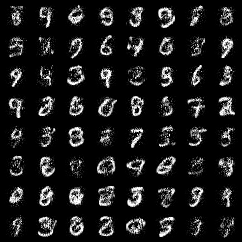
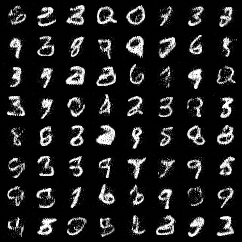
Add dequantization; Modify data range; Update result

diff --git a/scripts/test_nice.py b/scripts/test_nice.py
@@ -86,7 +86,14 @@ def main():
         nlls, bpds = [], []
         with torch.no_grad():
             for x in tqdm.tqdm(test_loader, desc='Evaluating', disable=not accelerator.is_main_process):
-                x = discard_label(x)
+                # dequantize data
+                x = discard_label(x)                # [-1, 1], quantized
+                x = (x + 1) / 2                     # [0, 1], quantized
+                x = x + torch.rand_like(x) / 256    # [0, 1+1/256], dequantized
+                x = x / (1 + 1 / 256)               # [0, 1], dequantized
+                xmin, xmax = conf.data.norm_range
+                x = x * (xmax - xmin) + xmin        # [xmin, xmax], dequantized
+                # forward
                 z, log_abs_jac = model(x)
                 nll_prior = F.softplus(z) + F.softplus(-z)
                 nll_prior = nll_prior.flatten(start_dim=1).sum(dim=1)
@@ -122,8 +129,9 @@ def main():
                 sample = accelerator.gather(sample)[:bs]
                 if accelerator.is_main_process:
                     for x in sample:
-                        x = image_norm_to_float(x).cpu()
-                        save_image(x, os.path.join(args.save_dir, f'{idx}.png'))
+                        xmin, xmax = conf.data.norm_range
+                        savepath = os.path.join(args.save_dir, f'{idx}.png')
+                        save_image(x, savepath, normalize=True, value_range=(xmin, xmax))
                         idx += 1
         logger.info(f'Samples are saved to {args.save_dir}')
         logger.info('End of sampling')

diff --git a/scripts/train_nice.py b/scripts/train_nice.py
@@ -142,7 +142,14 @@ def main():
         accelerator.save(dict(step=step, best_nll=best_nll), os.path.join(save_path, 'meta.pt'))
 
     def run_step(batch):
-        x = discard_label(batch)
+        # dequantize data
+        x = discard_label(batch)            # [-1, 1], quantized
+        x = (x + 1) / 2                     # [0, 1], quantized
+        x = x + torch.rand_like(x) / 256    # [0, 1+1/256], dequantized
+        x = x / (1 + 1 / 256)               # [0, 1], dequantized
+        xmin, xmax = conf.data.norm_range
+        x = x * (xmax - xmin) + xmin        # [xmin, xmax], dequantized
+        # forward
         z, log_abs_jac = model(x)
         # compute loss
         nll_prior = F.softplus(z) + F.softplus(-z)
@@ -167,7 +174,8 @@ def main():
             samples.append(unwrapped_model.backward(z).clamp(-1, 1))
         samples = torch.cat(samples, dim=0)
         nrow = math.ceil(math.sqrt(conf.train.n_samples))
-        save_image(samples, savepath, nrow=nrow, normalize=True, value_range=(-1, 1))
+        xmin, xmax = conf.data.norm_range
+        save_image(samples, savepath, nrow=nrow, normalize=True, value_range=(xmin, xmax))
 
     # START TRAINING
     logger.info('Start training...')

diff --git a/README.md b/README.md
@@ -77,8 +77,8 @@ accelerate-launch scripts/test_nice.py sample -c CONFIG --weights WEIGHTS --save
 ### Results
 
 |      Dataset       | Log-likelihood |  BPD   |
-| :----------------: | :------------: | :----: |
-| MNIST (test split) |   -1720.7717   | 3.8335 |
+| :----------------: |:--------------:|:------:|
+| MNIST (test split) |   1932.6956    | 3.4435 |
 
 <p align="center">
   <img src="./assets/nice-mnist.png" width=20% />
